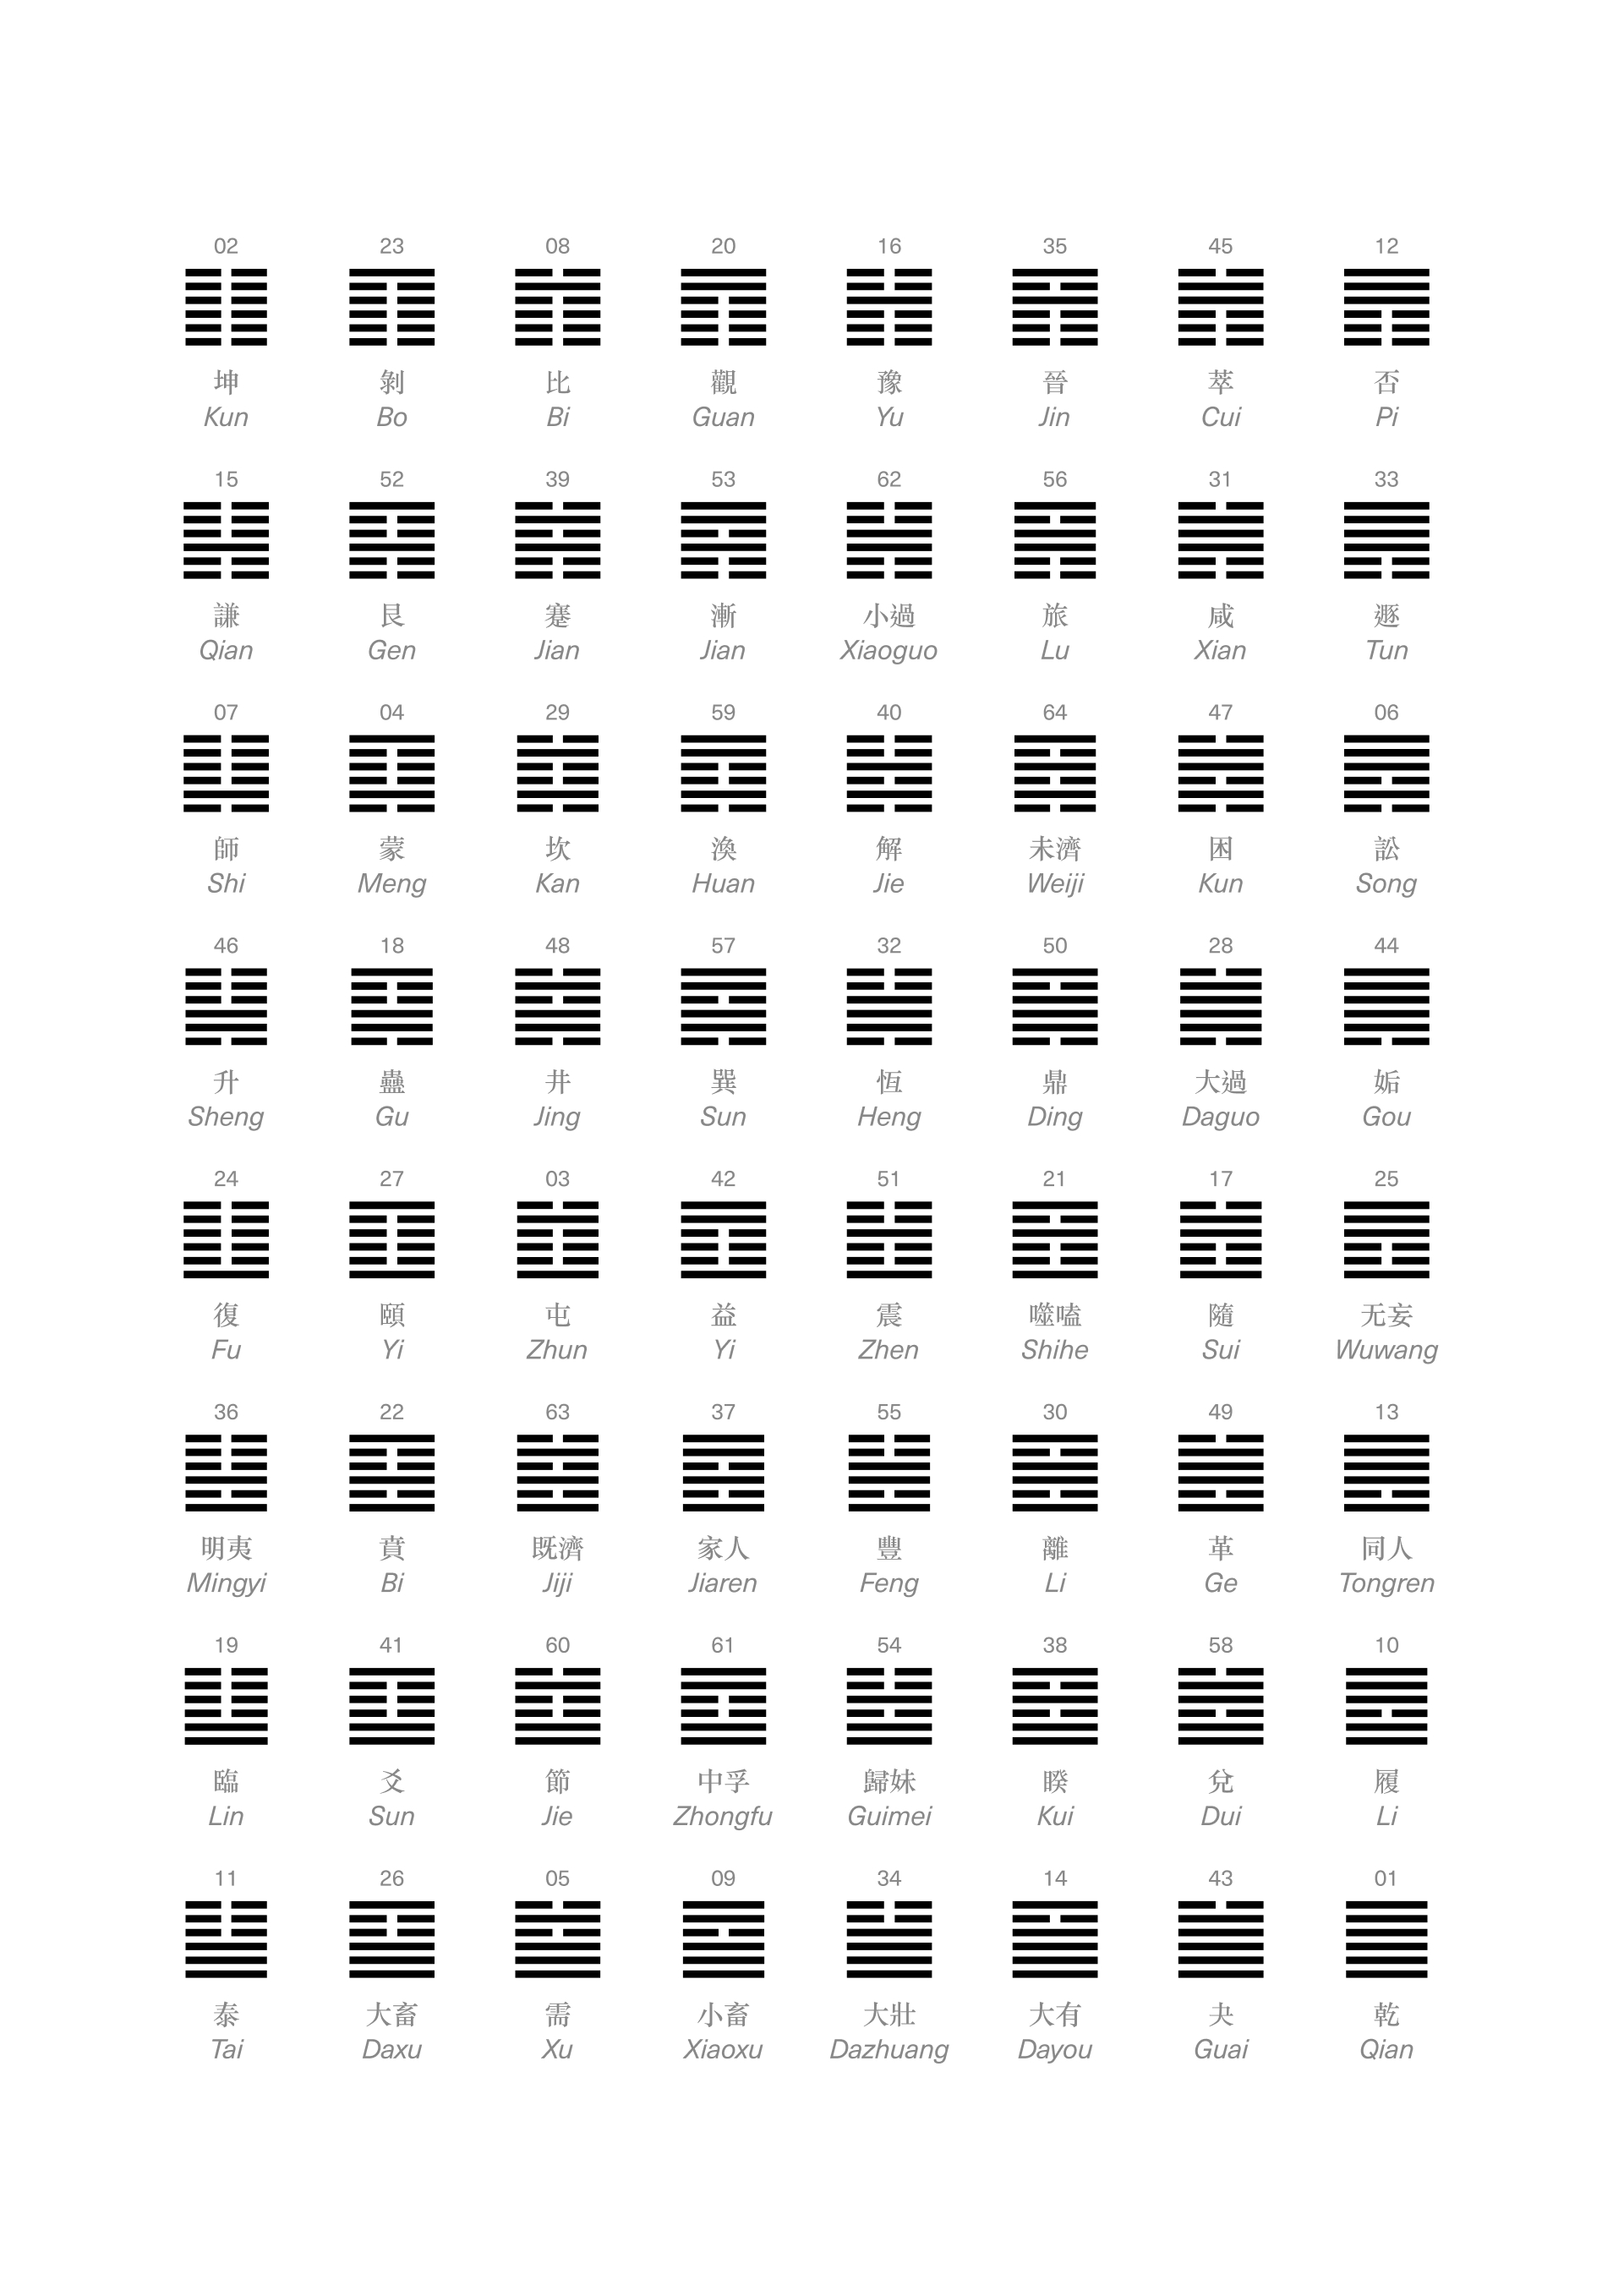
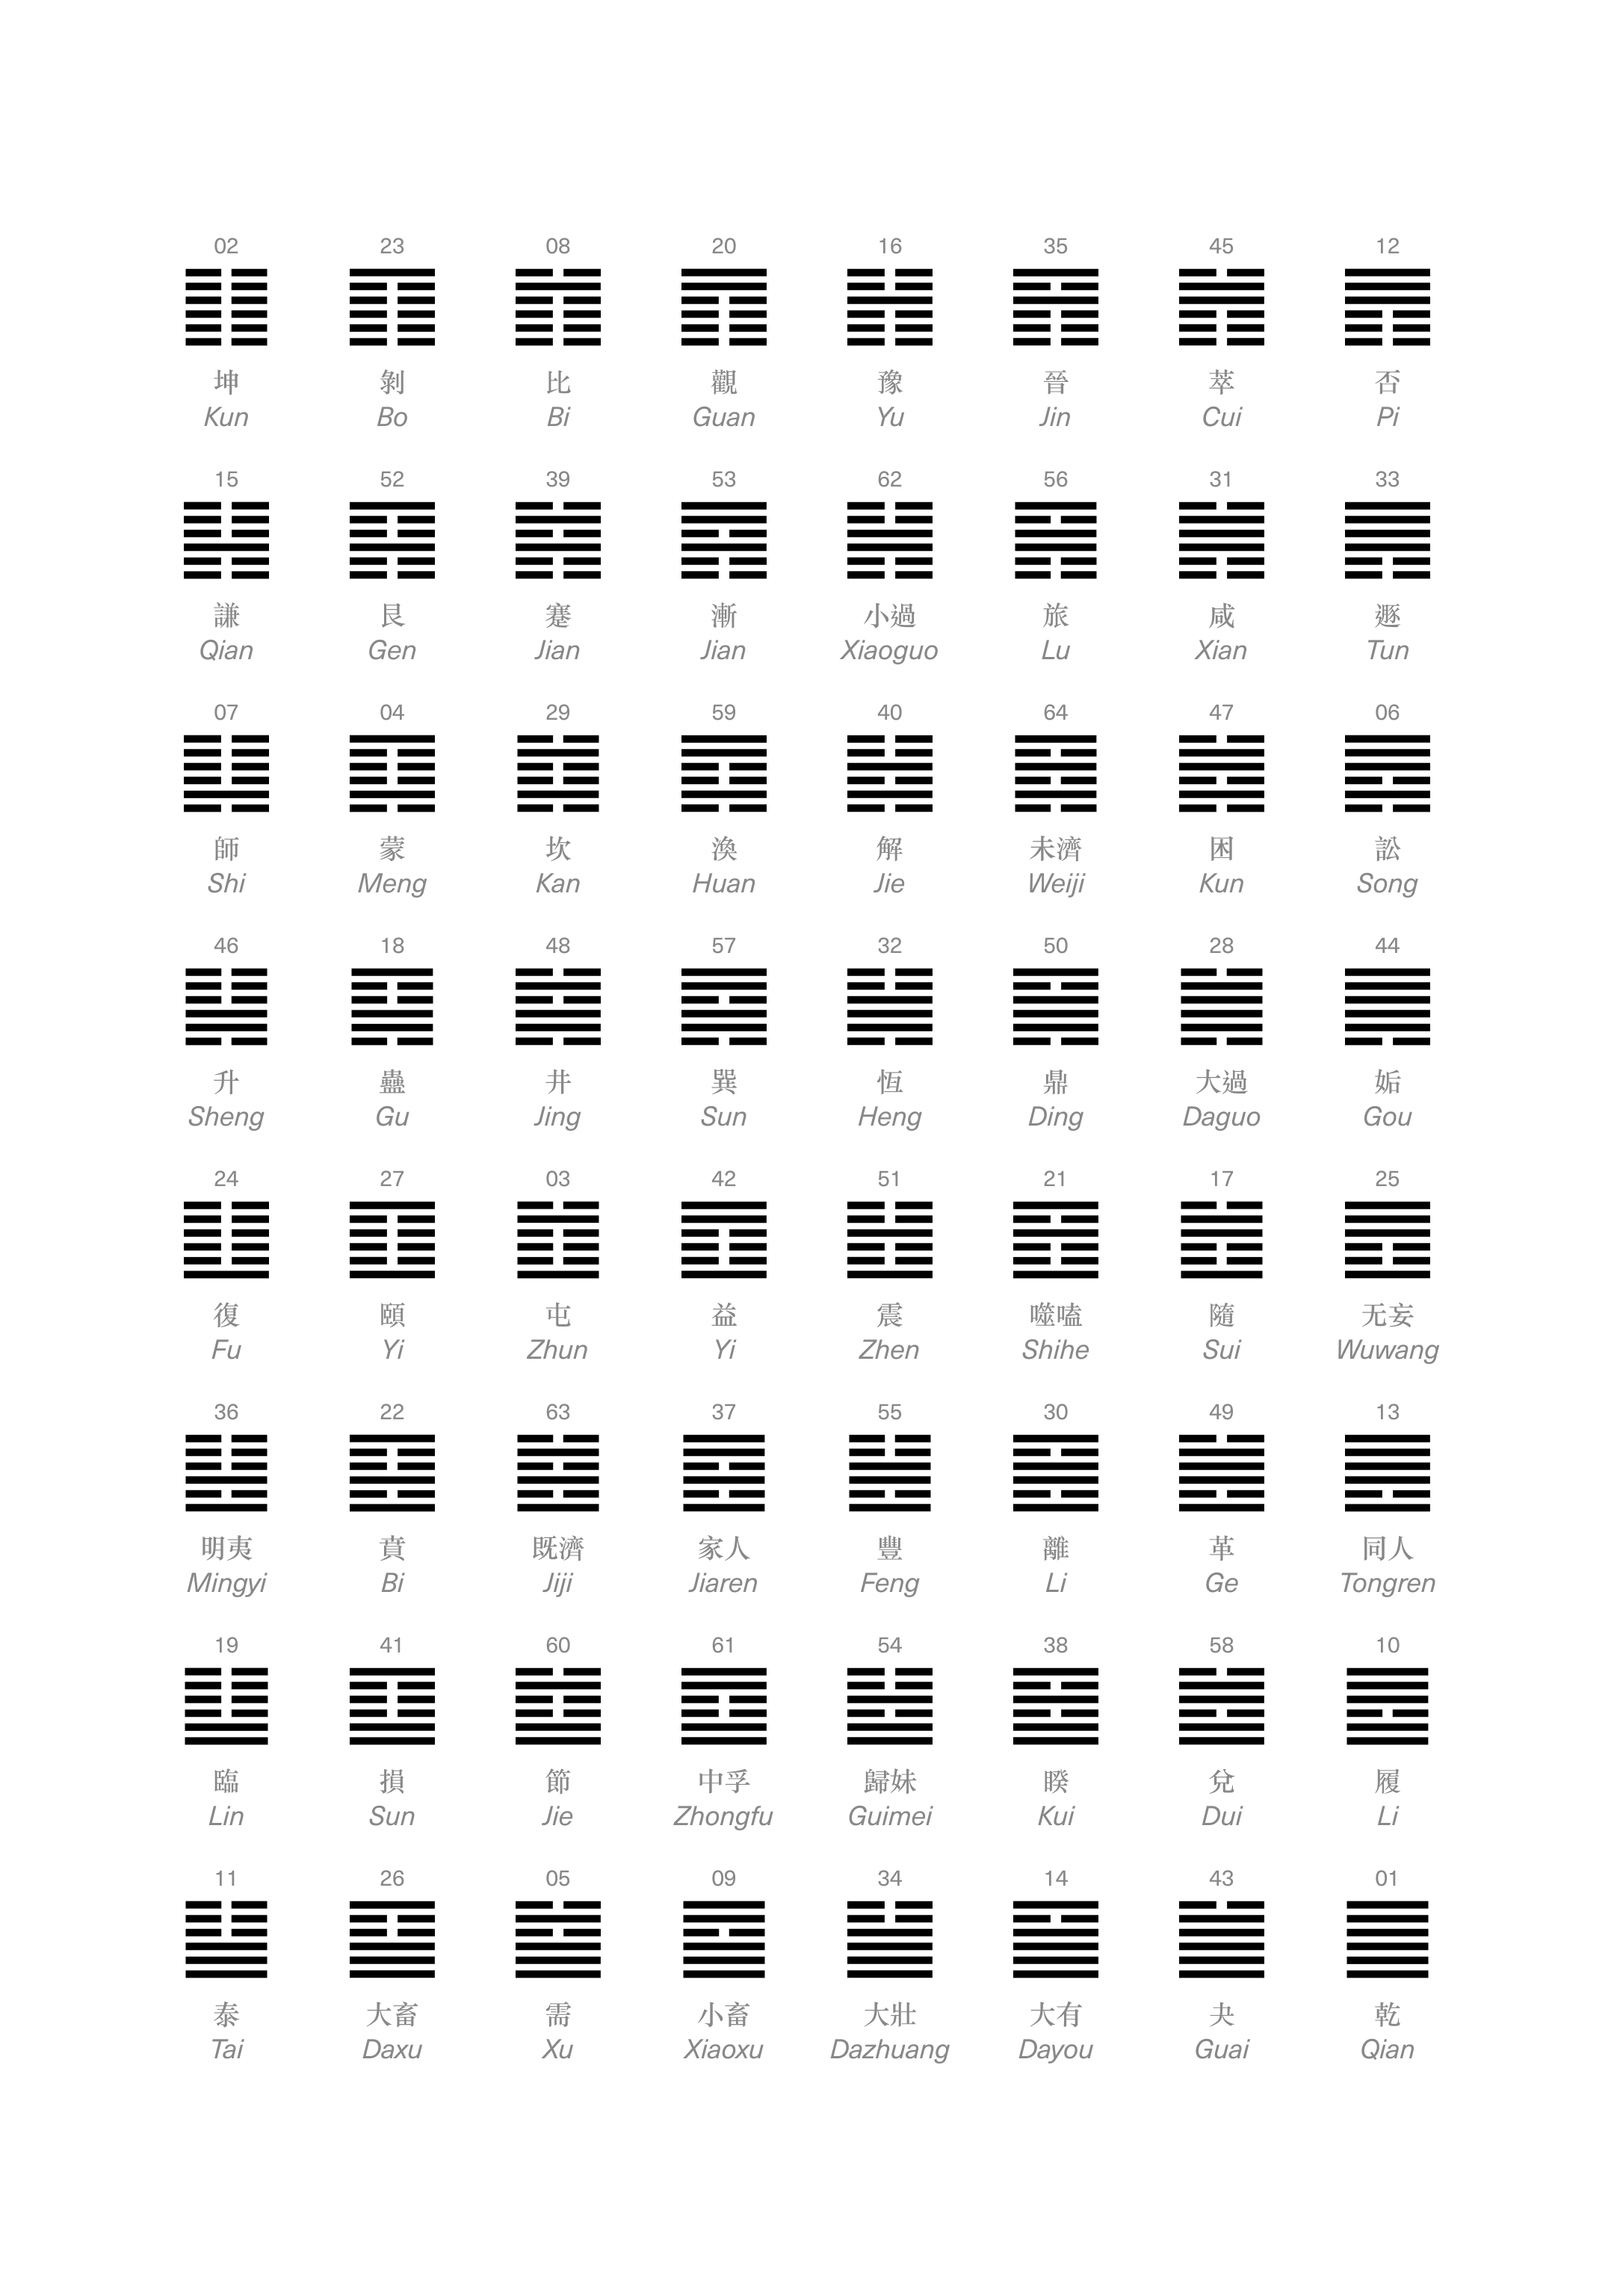
update

Changed region(s): [[0.7421, 0.5258, 0.7731, 0.5567], [0.6494, 0.5258, 0.6803, 0.5567], [0.3401, 0.5258, 0.3711, 0.5567]]

diff --git a/app/globals.css b/app/globals.css
@@ -702,7 +702,7 @@ a:hover .hover-underline::after {
 
 
 /* Mobile (320px - 979px) */
-@media (min-width: 320px) and (max-width: 380px) {
+@media (min-width: 0px) and (max-width: 380px) {
   /* Controls */
   .zoom-controls { display: none; }
   .zoom-separator { display: none; }
@@ -802,13 +802,37 @@ a:hover .hover-underline::after {
 }
 
 
+/* Small screens (width <= 320px or height <= 550px) */
+@media (max-width: 320px), (max-height: 550px) {
 
+  .screen-size-warning {
+    display: flex;
+  }
 
+  .screen-size-warning-box {
+    width: 90%;
+    max-width: 300px;
+  }
+
+  .screen-size-warning-title {
+    font-size: 12px;
+    padding: 10px 15px;
+  }
+
+  .screen-size-warning-content {
+    padding: 30px 15px;
+    font-size: 14px;
+  }
+
+  .screen-size-warning-content-cn {
+    font-size: 14px;
+  }
+
+  .screen-size-warning-content-en {
+    font-size: 12px;
+  }
+}
 
 /* Ultra-wide desktop (2000px+) - reserved for future use */
 @media (min-width: 2000px) {
-}
-
-@media (max-height: 580px) {
-
 }

diff --git a/app/about/page.tsx b/app/about/page.tsx
@@ -22,7 +22,7 @@ export default function About() {
     {
 
       thumbnail: '/images/about/1.jpg',
-      youtubeId: 'YOUR_YOUTUBE_ID_1'
+      youtubeId: 'rv8JewKH91M'
     },
     {
 
@@ -541,18 +541,16 @@ Basil Pao began his photographic career in 1980 upon his return to Hong Kong aft
             </button>
             
             {/* Video player */}
-            <video
-              controls
-              autoPlay
+            <iframe
+              src={`https://www.youtube.com/embed/${videos[currentVideoIndex].youtubeId}?autoplay=1`}
               style={{
                 width: '100%',
                 height: '100%',
-                backgroundColor: '#000'
+                border: 'none'
               }}
-            >
-              <source src="/videos/demo.mp4" type="video/mp4" />
-              Your browser does not support the video tag.
-            </video>
+              allow="accelerometer; autoplay; clipboard-write; encrypted-media; gyroscope; picture-in-picture"
+              allowFullScreen
+            />
           </div>
         </div>
       )}

diff --git a/app/layout.tsx b/app/layout.tsx
@@ -32,10 +32,10 @@ export default function RootLayout({
             </div>
             <div className="screen-size-warning-content">
               <div className="screen-size-warning-content-cn">
-                為讓瀏覽達到最佳體驗，建議使用較寬的瀏覽器視窗。
+                請使用較大視窗瀏覽
               </div>
               <div className="screen-size-warning-content-en">
-                For the best experience, please expand your browser window.
+                Please use a larger window
               </div>
             </div>
           </div>